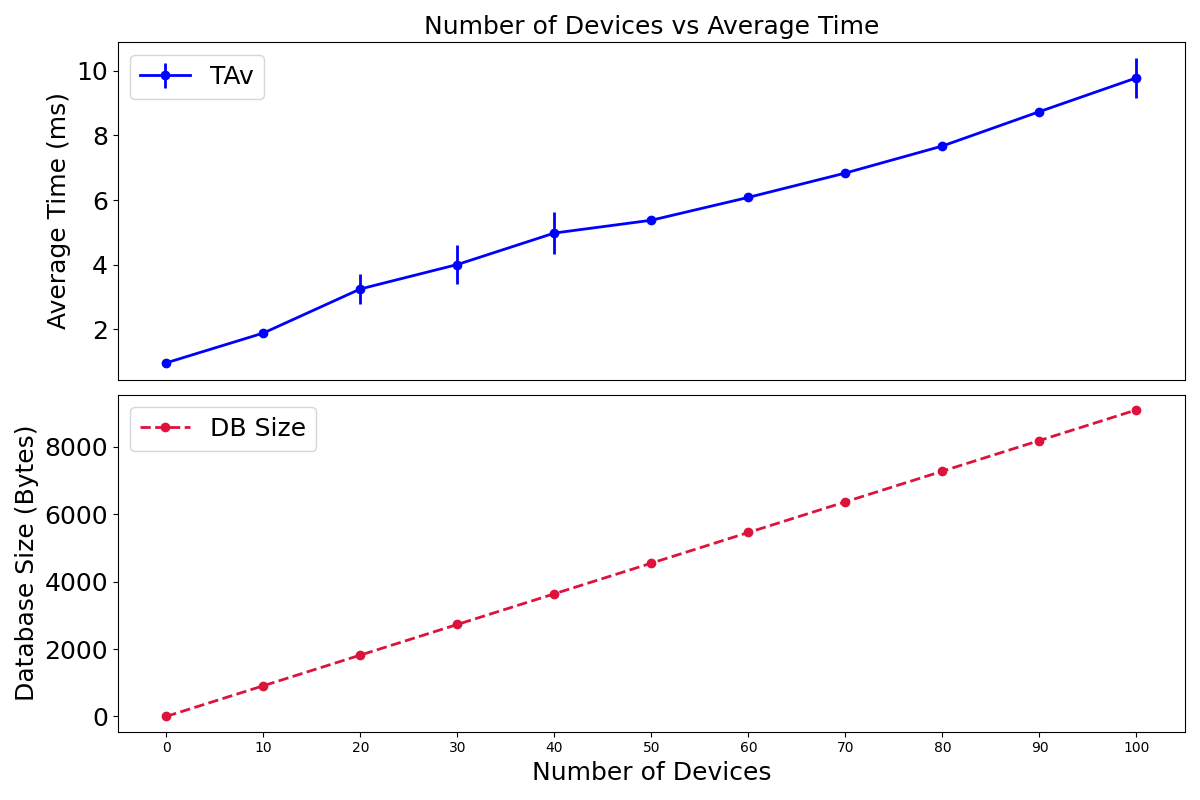
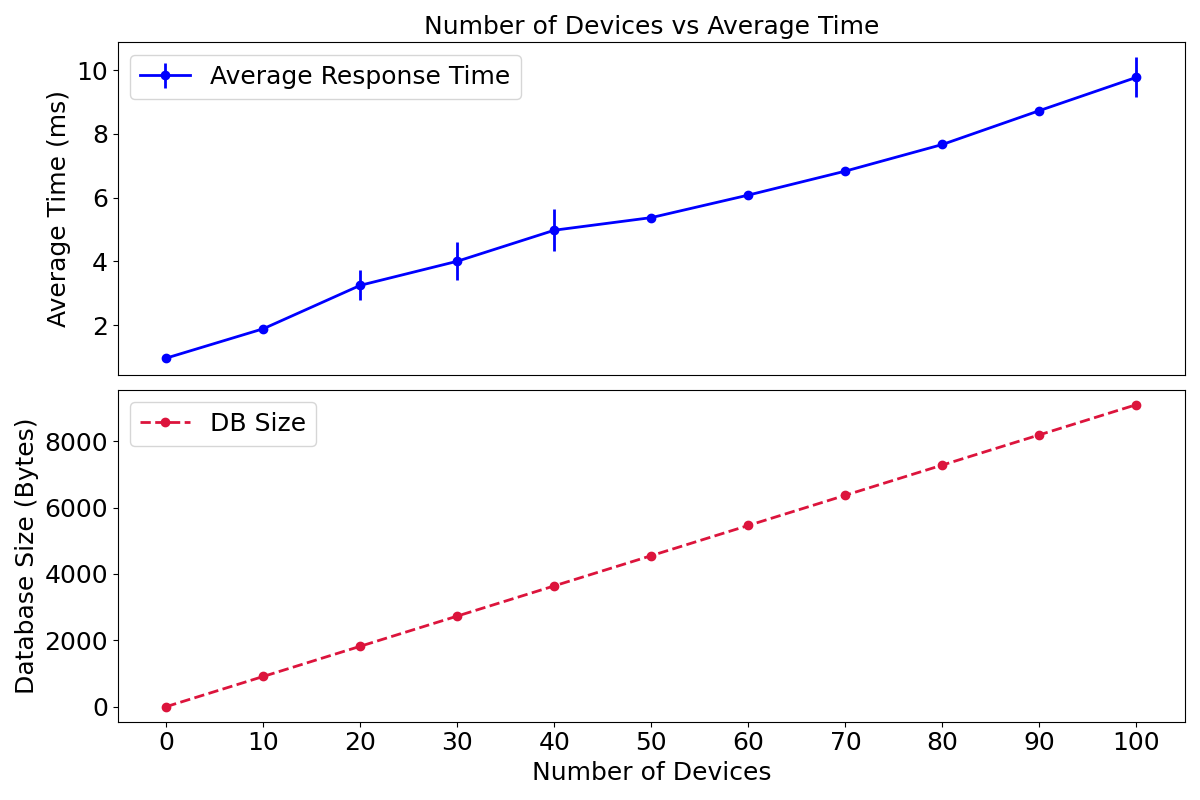
add latest osmud build

diff --git a/graphs/mud_graph.py b/graphs/mud_graph.py
@@ -1,15 +1,14 @@
 ## Listing Devices
 import pandas as pd
 import matplotlib.pyplot as plt
+from matplotlib.backends.backend_pdf import PdfPages
 
 fontsize = 18
 linewidth = 2
 
 def extract_columns_from_csv(file_path, columns):
     df = pd.read_csv(file_path)
-    
     extracted_data = df[columns]
-    
     return extracted_data
 
 # Listing devices on the network 
@@ -20,12 +19,12 @@ def listing_devices():
     fig, (ax1, ax2) = plt.subplots(2, 1, figsize=(12, 8))
 
     # Plotting TAv with standard deviation
-    ax1.errorbar(data['Devices'], data['TAv'], yerr=data['SD'], fmt='-o', label='TAv', color='b', linewidth=linewidth)
+    ax1.errorbar(data['Devices'], data['TAv'], yerr=data['SD'], fmt='-o', label='Average Response Time', color='b', linewidth=linewidth)
     ax1.set_ylabel('Average Time (ms)', fontsize=fontsize)
     ax1.tick_params(axis='y', labelsize=fontsize)
     ax1.set_xticks([])
     ax1.set_title('Number of Devices vs Average Time', fontsize=fontsize)
-    ax1.legend(fontsize=fontsize)
+    ax1.legend(loc="upper left", fontsize=fontsize)
 
     # Plotting DB Size
     ax2.plot(data['Devices'], data['DB Size'], 'o--', label='DB Size', color='crimson', linewidth=linewidth)
@@ -33,26 +32,29 @@ def listing_devices():
     ax2.set_ylabel('Database Size (Bytes)', fontsize=fontsize)
     ax2.tick_params(axis='y', labelsize=fontsize)
     ax2.set_xticks(range(0, max(data['Devices']) + 1, 10))
+    ax2.tick_params(axis='x', labelsize=fontsize)
     # ax2.set_title('Number of Devices vs Database Size', fontsize=fontsize)
-    ax2.legend(fontsize=fontsize)
+    ax2.legend(loc="upper left", fontsize=fontsize)
 
     fig.tight_layout()
-    plt.savefig('graphs/listing-devices.png')
+    with PdfPages('graphs/listing-devices.pdf') as pdf:
+        pdf.savefig(fig)
+    plt.close(fig)
 
 # Applying a policy to a device
 def applying_policy():
     file_path = 'graphs/applying-policy.csv'
     data = extract_columns_from_csv(file_path, ['Policies', 'TAv', 'SD', 'MUD File Size'])
     
-    fig, (ax1, ax2) = plt.subplots(2, 1, figsize=(12, 12))
+    fig, (ax1, ax2) = plt.subplots(2, 1, figsize=(12, 8))
 
     # Plotting TAv with standard deviation
-    ax1.errorbar(data['Policies'], data['TAv'], yerr=data['SD'], fmt='-o', label='TAv', color='b', linewidth=linewidth)
+    ax1.errorbar(data['Policies'], data['TAv'], yerr=data['SD'], fmt='-o', label='Average Response Time', color='b', linewidth=linewidth)
     ax1.set_ylabel('Average Time (ms)', fontsize=fontsize)
     ax1.tick_params(axis='y', labelsize=fontsize)
     ax1.set_xticks([])
     ax1.set_title('Number of Policies vs Average Time', fontsize=fontsize)
-    ax1.legend("Average time to load device policies", fontsize=fontsize)
+    ax1.legend(loc="upper left", fontsize=fontsize)
 
     # Plotting MUD File Size
     ax2.plot(data['Policies'], data['MUD File Size'], 'o--', label='MUD File Size', color='crimson', linewidth=linewidth)
@@ -60,26 +62,29 @@ def applying_policy():
     ax2.set_ylabel('MUD File Size (Bytes)', fontsize=fontsize)
     ax2.tick_params(axis='y', labelsize=fontsize)
     ax2.set_xticks([2, 20, 40])
+    ax2.tick_params(axis='x', labelsize=fontsize)
     # ax2.set_title('Number of Policies vs MUD File Size', fontsize=fontsize)
-    ax2.legend(fontsize=fontsize)
+    ax2.legend(loc="upper left", fontsize=fontsize)
 
     fig.tight_layout()
-    plt.savefig('graphs/applying-policy.png')
+    with PdfPages('graphs/applying-policy.pdf') as pdf:
+        pdf.savefig(fig)
+    plt.close(fig)
     
 # Loading MUD file for a device
 def active_mudfiles():
     file_path = 'graphs/active-mudfiles.csv'
     data = extract_columns_from_csv(file_path, ['Policies', 'TAv', 'SD', 'MUD File Size'])
     
-    fig, (ax1, ax2) = plt.subplots(2, 1, figsize=(12, 12))
+    fig, (ax1, ax2) = plt.subplots(2, 1, figsize=(12, 8))
 
     # Plotting TAv with standard deviation
-    ax1.errorbar(data['Policies'], data['TAv'], yerr=data['SD'], fmt='-o', label='TAv', color='b', linewidth=linewidth)
+    ax1.errorbar(data['Policies'], data['TAv'], yerr=data['SD'], fmt='-o', label='Average Response Time', color='b', linewidth=linewidth)
     ax1.set_ylabel('Average Time (ms)', fontsize=fontsize)
     ax1.tick_params(axis='y', labelsize=fontsize)
     ax1.set_xticks([])
     ax1.set_title('Number of Policies vs Average Time', fontsize=fontsize)
-    ax1.legend("Average time to apply policy to device", fontsize=fontsize)
+    ax1.legend(loc="upper left", fontsize=fontsize)
     
     # Plotting MUD File Size
     ax2.plot(data['Policies'], data['MUD File Size'], 'o--', label='MUD File Size', color='crimson', linewidth=linewidth)
@@ -87,11 +92,14 @@ def active_mudfiles():
     ax2.set_ylabel('MUD File Size (Bytes)', fontsize=fontsize)
     ax2.tick_params(axis='y', labelsize=fontsize)
     ax2.set_xticks([2, 20, 40])
+    ax2.tick_params(axis='x', labelsize=fontsize)
     # ax2.set_title('Number of Policies vs MUD File Size', fontsize=fontsize)
-    ax2.legend(fontsize=fontsize)
+    ax2.legend(loc="upper left", fontsize=fontsize)
 
     fig.tight_layout()
-    plt.savefig('graphs/active-mudfiles.png')
+    with PdfPages('graphs/active-mudfiles.pdf') as pdf:
+        pdf.savefig(fig)
+    plt.close(fig)
 
 listing_devices()
 applying_policy()
